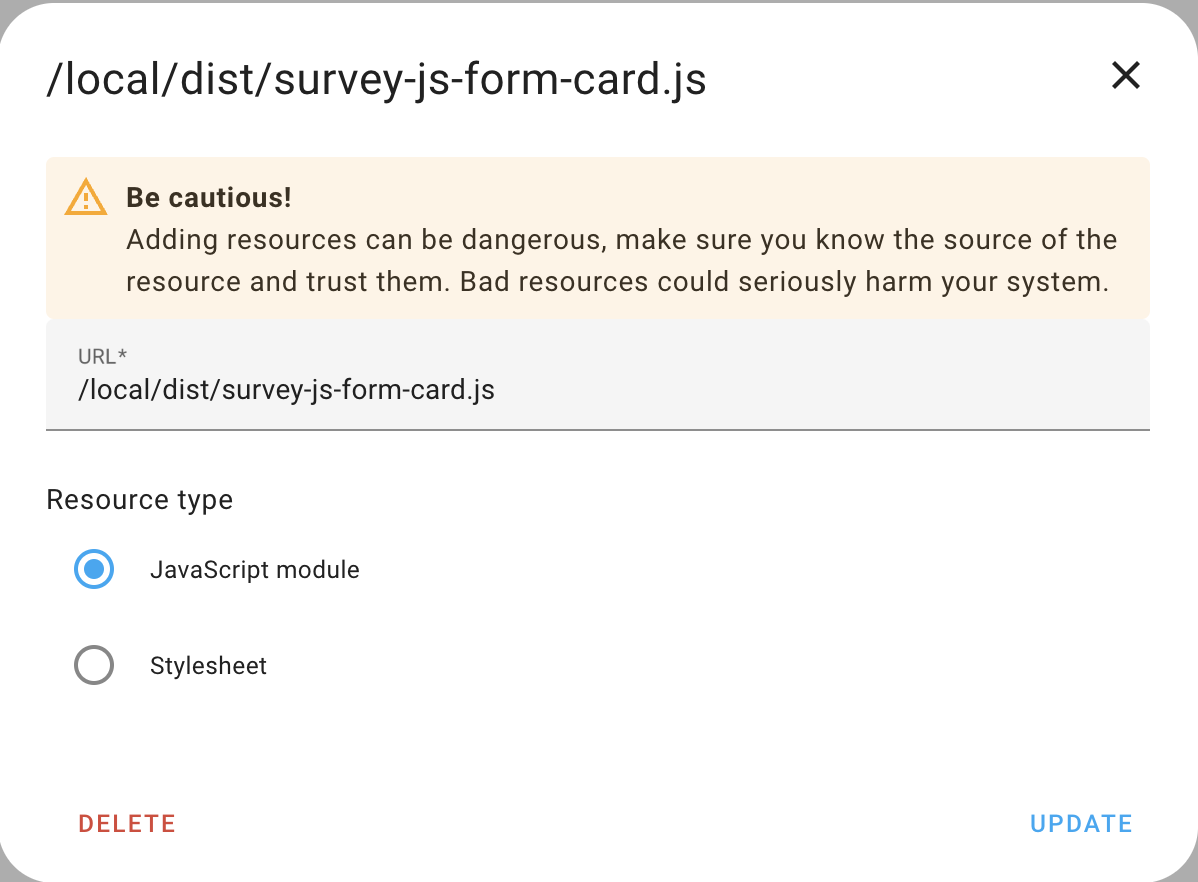
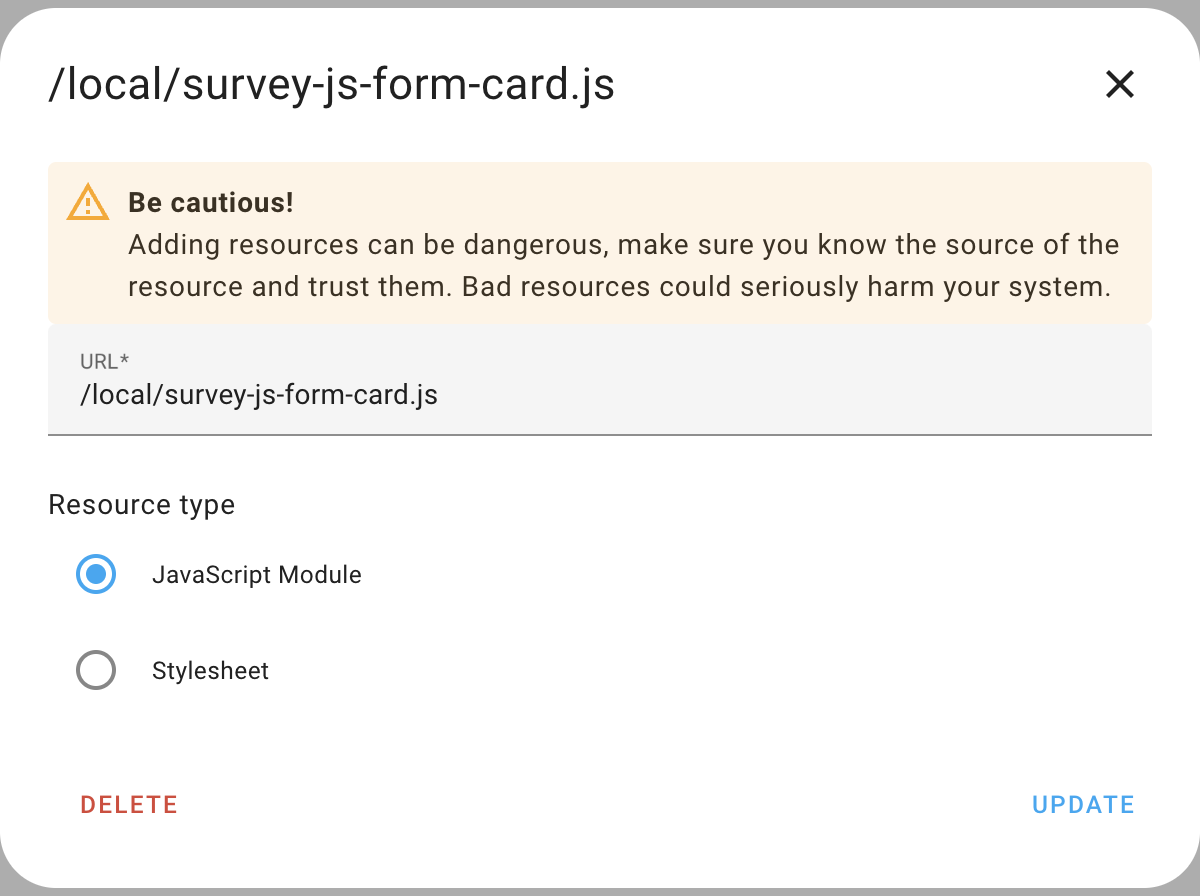
Readme update

diff --git a/README.md b/README.md
@@ -1,78 +1,182 @@
 # SurveyJs Form Card
-A minimal card with manual setup
+The SurveyJS Form Card is a custom integration for [Home Assistant][home-assistant] that allows you to embed dynamic and interactive surveys or forms within Home Assistant cards. This integration leverages the powerful SurveyJS library to create, manage, and display forms, enabling users to collect and process data directly from their Home Assistant dashboards.
 ***
-
 
 * @published: May 2023
 * @author: Manikanta Reddy Thikkavarapu
 * @workspace: `config/www`
 
-The target of this tutorial is to show minimal steps to be done to get hello
-world output from a card written all by yourself. The setup is still done
-manually to understand the technical requirements. More advanced solutions will
-be covered by future tutorials. Please understand minimal as a reasonable
-minimum to get started, not as the absolute minimum.
+[![hacs][hacs-badge]][hacs-url]
+[![release][release-badge]][release-url]
+![downloads][downloads-badge]
 
 ## Prerequisites
 
 * [Development Environment](https://github.com/home-assistant-tutorials/01.development-environment)
 * the Prerequisites named there
-* basic skills of Javascript, Jquery, Web Components, Lit Library
+* basic skills of Javascript, Jquery, Web Components, Lit Library, Webpack
 * a workspace `config/www`
 
-## TODO: Add How to: HACS installation 
+## Installation
 
-* HACS is the Home Assistant Community Store where you can find extra integrations for Home Assistant that are not part of the core installation.
-* First, let’s make sure that you have the advanced mode enabled for your user. This way you see more options in Home Assistant.
-1. Go to your Profile Name.
-2. Scroll down and enable Advanced Mode.
-3. To install HACS, you need to install the SSH Terminal first.
-4. Go to Settings.
-5. Go to Add-ons.
-6. Click Add-on Store.
-7. Click the Terminal & SSH card.
-8. Click Install.
-9. Turn on all the options and click start.
-10. You’ll now see a new Terminal menu item in the left menu.
-11. Now we can install HACS.
-12. Go to Terminal.
-13. Type the following code.
-wget -O - https://get.hacs.xyz | bash -
-14. Wait until the code is downloaded.
-15. Now reboot Home Assistant.
-16. Go to Settings, System, Restart.
-17. Go to Settings -> Devices and Services.
-18. Click Add integration and search for HACS.
-19. If you do not see HACS in the list, then please clear your browser cache and try again.
-20. Click HACS.
-21. Tick all the boxes and click Submit.
+### HACS
 
-Copy the key that is shown in the dialog box, and click on the link to open GitHub.
+SurveyJs Form Card is available in [HACS][hacs] (Home Assistant Community Store).
 
-Log in to GitHub.
-If you do not have a GitHub account yet, please create one first.
+1. Install HACS if you don't have it already
+2. Open HACS in Home Assistant
+3. Go to "Frontend" section
+4. Search for "SurveyJs Form Card" and download the card
 
-Paste the code that you copied from Home Assistant.
-1. Click Continue.
-2. Click Authorize hacs.
-3. Now go back to Home Assistant.
-4. Click Finish.
-5. You’ll see a HACS menu item on the left menu.
-6. If you click HACS, you’ll see options to install HACS integrations into Home Assistant.
-7. So, HACS is now installed and you can start installing HACS integrations as of now!
+### Manual
 
-## TODO: Manual Installation
+1. Download `dist/survey-js-form-card.js` file from the [latest release][release-url].
+2. Put `survey-js-form-card.js` file into your `config/www` folder.
 
-## Cloning the Repository
+### Adding the Resource
 
-You may clone this repository into your workspace and follow along.
-Alternatively you may want to write the code yourself, to get a deeper effect of
-learning. Just decide what works best for you.
+Open your admin account of the development environment in the web browser. Did
+you already unlock **Advanced Mode**?
 
-Fork the repository on Github into your own instance. Open the workspace
-directory in the command-line. Call `git clone <URL>`. Use the `URL` Github does
-give you, when you click the button `Code`. If your setup is well done, you
-should prefer `SSH` over `HTTPS`. This allows you to easily push to your
-repository.
+Go to ***Settings*** > ***Dashboard***. Click the three dots in the upper right
+hand corner to open ***Resources***. Click ***ADD RESOURCE*** in the lower right
+hand corner.
+
+##### HACS
+As the URL enter `/hacsfiles/SurveyJs-HomeAssistant-Card/survey-js-form-card.js?hacstag=66035578447`. Choose ***JavaScript Module*** and submit.
+
+![adding as resource](img/adding-as-resource_prod.png)
+
+##### Manual
+As the URL enter `/local/survey-js-form-card.js`. Choose ***JavaScript Module*** and submit.
+
+![adding as resource](img/adding-as-resource_dev.png)
+
+### Using the Card
+
+Go to a dashboard. Use the three dots in the upper right hand corner to edit the
+dashboard. Take control if required. Click ***+ ADD CARD***. At the bottom
+select ***Manual*** to add a custom card.
+
+![card configuration](img/card-config-1.png)
+
+In the card configuration enter:
+
+```yaml
+type: custom:survey-card
+entity: sensor.survey_js_entity
+surveyjs_json: {
+ "pages": [
+  {
+   "name": "page1",
+   "elements": [
+    {
+     "type": "checkbox",
+     "name": "car",
+     "width": "1000px",
+     "minWidth": "1000px",
+     "maxWidth": "1000px",
+     "title": "Which is the brand of your car?",
+     "description": "If you own cars from multiple brands, please select all of them.",
+     "isRequired": true,
+     "choices": [
+      "Ford",
+      "Vauxhall",
+      "Volkswagen"
+     ],
+     "separateSpecialChoices": true,
+     "showOtherItem": true,
+     "showNoneItem": true,
+     "colCount": 2,
+     "showSelectAllItem": true
+    }
+   ]
+  }
+ ],
+ "showQuestionNumbers": "off"
+}
+```
+
+1. type: custom:survey-card (Don't forget the `custom` prefix to custom element card & `custom:survey-card` name should match with whatever name we give below) -> 
+```js
+customElements.define("survey-card", SurveyCard);
+```
+2. entity: sensor.survey_js_entity (Here you need to mention whatever entity you are using)
+3. surveyjs_json: Copy paste the survey json
+
+```json
+{
+ "pages": [
+  {
+   "name": "page1",
+   "elements": [
+    {
+     "type": "checkbox",
+     "name": "car",
+     "width": "1000px",
+     "minWidth": "1000px",
+     "maxWidth": "1000px",
+     "title": "Which is the brand of your car?",
+     "description": "If you own cars from multiple brands, please select all of them.",
+     "isRequired": true,
+     "choices": [
+      "Ford",
+      "Vauxhall",
+      "Volkswagen"
+     ],
+     "separateSpecialChoices": true,
+     "showOtherItem": true,
+     "showNoneItem": true,
+     "colCount": 2,
+     "showSelectAllItem": true
+    }
+   ]
+  }
+ ],
+ "showQuestionNumbers": "off"
+}
+```
+4. Save the changes
+
+Note:
+How to create the json ?
+Answer: Use surveyjs survey creation link -> [`Survey Creator`](https://surveyjs.io/create-free-survey)
+
+If everything went well so far, congratulations! You should now see the output of the first card you created yourself. Try different entities.
+
+![success](img/success.png)
+
+### Entities & Helpers
+
+SurveyJs card totally depends on 1 entity and 3 helpers:
+
+1) Sensor: [`Documentation 1`](https://www.home-assistant.io/integrations/sensor/) & [`Documentation 2`](https://developers.home-assistant.io/docs/core/entity/sensor/)
+    * Sensor entity is used to store floor plan location
+2) input_select: [`Documentation`](https://www.home-assistant.io/integrations/input_select/)
+    * Input select helper is used to monitor surveyjs lifecycle state changes; anytime the state of the Input select entity changes, the same state change is triggered in the surveyjs sensor entity.
+3) input_text: [`Documentation`](https://www.home-assistant.io/integrations/input_text/)
+    * Input text helper is used to store surveyjs form response.
+4) timer: [`Documentation`](https://www.home-assistant.io/integrations/timer/)
+    * Timer helper is used for two purposes in our project, one is for countdown timer for surveyjs form submission and another one is for notification timer
+
+Note: The reason for using helper functions instead of sensor entities for all purposes is that state changes with sensor entities are not permanent and data is not saved in the homeassistant database.
+
+Declare entities and helpers in the homeassistant card configuration editor like in the below image:
+
+![CustomCssConfig](img/card-config-2.png)
+
+
+<!-- Badges -->
+
+[hacs-url]: https://github.com/hacs/integration
+[hacs-badge]: https://img.shields.io/badge/hacs-default-orange.svg?style=flat-square
+[release-badge]: https://img.shields.io/github/v/release/NEU-ABLE-LAB/SurveyJs-HomeAssistant-Card?style=flat-square
+[downloads-badge]: https://img.shields.io/github/downloads/NEU-ABLE-LAB/SurveyJs-HomeAssistant-Card/total?style=flat-square
+
+<!-- References -->
+
+[home-assistant]: https://www.home-assistant.io/
+[hacs]: https://hacs.xyz
+[release-url]: https://github.com/NEU-ABLE-LAB/SurveyJs-HomeAssistant-Card/releases
 
 ##  For further deep-dive into the code go to code-explainer.md

diff --git a/code-explainer.md b/code-explainer.md
@@ -17,142 +17,6 @@ You should know [the official
 documentation](https://developers.home-assistant.io/docs/frontend/custom-ui/custom-card),
 too. This tutorial is based upon it.
 
-## Running the Code
-
-### Adding the Ressource
-
-Open your admin account of the development environment in the web browser. Did
-you already unlock **Advanced Mode**?
-
-![unlock advanced mode](img/advanced-mode.png)
-
-Go to ***Settings*** > ***Dashboard***. Click the three dots in the upper right
-hand corner to open ***Resources***. Click ***ADD RESOURCE*** in the lower right
-hand corner.
-
-##### Development
-As the URL enter `/local/survey-js-form-card.js`. Choose ***JavaScript Module*** and submit.
-
-![adding as resource](img/adding-as-resource_dev.png)
-
-##### Production
-As the URL enter `/hacsfiles/SurveyJs-HomeAssistant-Card/survey-js-form-card.js?hacstag=66035578447`. Choose ***JavaScript Module*** and submit.
-
-![adding as resource](img/adding-as-resource_prod.png)
-
-### Using the Card
-
-Go to a dashboard. Use the three dots in the upper right hand corner to edit the
-dashboard. Take control if required. Click ***+ ADD CARD***. At the bottom
-select ***Manual*** to add a custom card.
-
-![card configuration](img/card-config-1.png)
-
-In the card configuration enter:
-
-```yaml
-type: custom:survey-card
-entity: sensor.survey_js_entity
-surveyjs_json: {
- "pages": [
-  {
-   "name": "page1",
-   "elements": [
-    {
-     "type": "checkbox",
-     "name": "car",
-     "width": "1000px",
-     "minWidth": "1000px",
-     "maxWidth": "1000px",
-     "title": "Which is the brand of your car?",
-     "description": "If you own cars from multiple brands, please select all of them.",
-     "isRequired": true,
-     "choices": [
-      "Ford",
-      "Vauxhall",
-      "Volkswagen"
-     ],
-     "separateSpecialChoices": true,
-     "showOtherItem": true,
-     "showNoneItem": true,
-     "colCount": 2,
-     "showSelectAllItem": true
-    }
-   ]
-  }
- ],
- "showQuestionNumbers": "off"
-}
-```
-
-1. type: custom:survey-card (Don't forget the `custom` prefix to custom element card & `custom:survey-card` name should match with whatever name we give below) -> 
-```js
-customElements.define("survey-card", SurveyCard);
-```
-2. entity: sensor.survey_js_entity (Here you need to mention whatever entity you are using)
-3. surveyjs_json: Copy paste the survey json
-
-```json
-{
- "pages": [
-  {
-   "name": "page1",
-   "elements": [
-    {
-     "type": "checkbox",
-     "name": "car",
-     "width": "1000px",
-     "minWidth": "1000px",
-     "maxWidth": "1000px",
-     "title": "Which is the brand of your car?",
-     "description": "If you own cars from multiple brands, please select all of them.",
-     "isRequired": true,
-     "choices": [
-      "Ford",
-      "Vauxhall",
-      "Volkswagen"
-     ],
-     "separateSpecialChoices": true,
-     "showOtherItem": true,
-     "showNoneItem": true,
-     "colCount": 2,
-     "showSelectAllItem": true
-    }
-   ]
-  }
- ],
- "showQuestionNumbers": "off"
-}
-```
-4. Save the changes
-
-Note:
-How to create the json ?
-Answer: Use surveyjs survey creation link -> [`Survey Creator`](https://surveyjs.io/create-free-survey)
-
-If everything went well so far, congratulations! You should now see the output of the first card you created yourself. Try different entities.
-
-![success](img/success.png)
-
-### Entities & Helpers
-
-SurveyJs card totally depends on 1 entity and 3 helpers:
-
-1) Sensor: [`Documentation 1`](https://www.home-assistant.io/integrations/sensor/) & [`Documentation 2`](https://developers.home-assistant.io/docs/core/entity/sensor/)
-    * Sensor entity is used to store floor plan location
-2) input_select: [`Documentation`](https://www.home-assistant.io/integrations/input_select/)
-    * Input select helper is used to monitor surveyjs lifecycle state changes; anytime the state of the Input select entity changes, the same state change is triggered in the surveyjs sensor entity.
-3) input_text: [`Documentation`](https://www.home-assistant.io/integrations/input_text/)
-    * Input text helper is used to store surveyjs form response.
-4) timer: [`Documentation`](https://www.home-assistant.io/integrations/timer/)
-    * Timer helper is used for two purposes in our project, one is for countdown timer for surveyjs form submission and another one is for notification timer
-
-Note: The reason for using helper functions instead of sensor entities for all purposes is that state changes with sensor entities are not permanent and data is not saved in the homeassistant database.
-
-Declare entities and helpers in the homeassistant card configuration editor like in the below image:
-
-![CustomCssConfig](img/card-config-2.png)
-
 ### Custom css and icon
 
 Custom css file content: 
